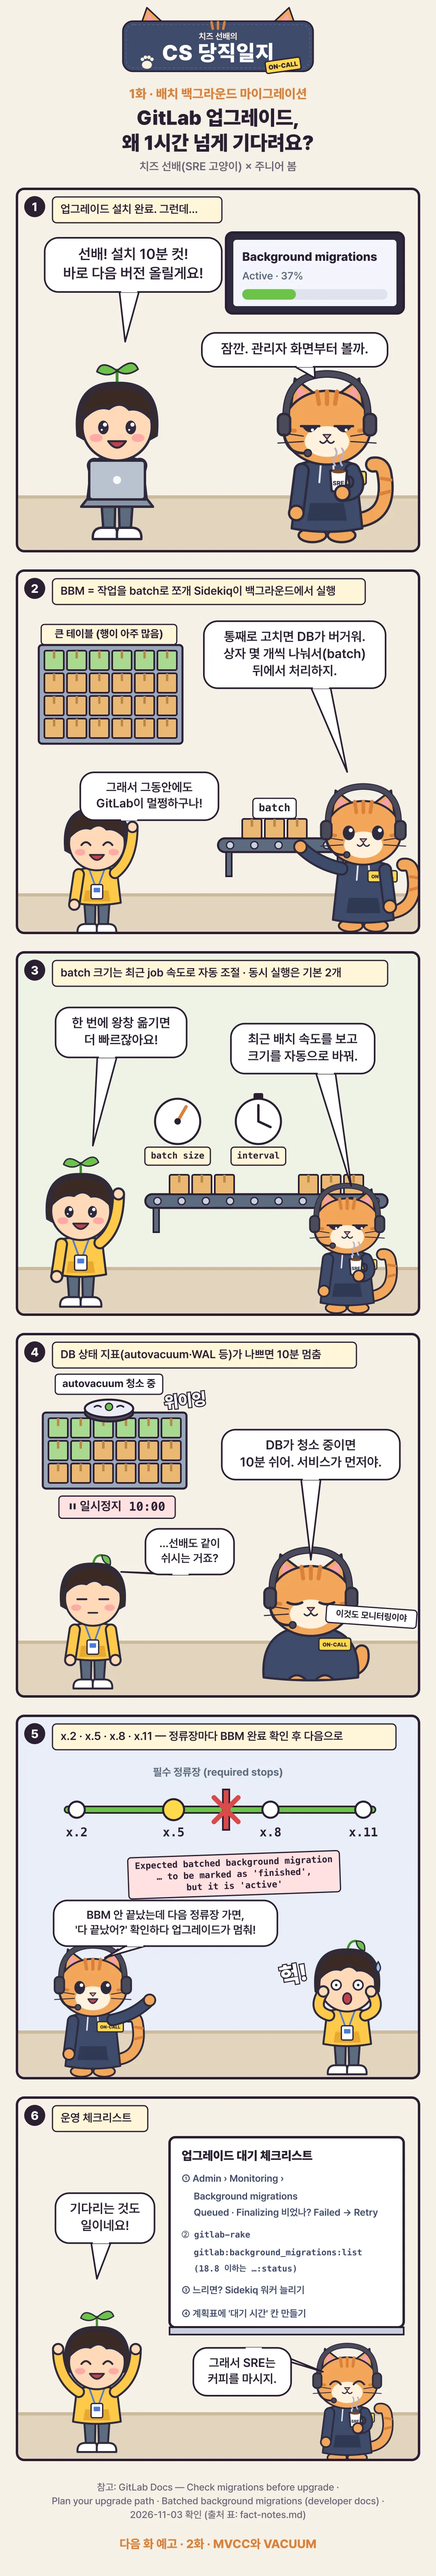
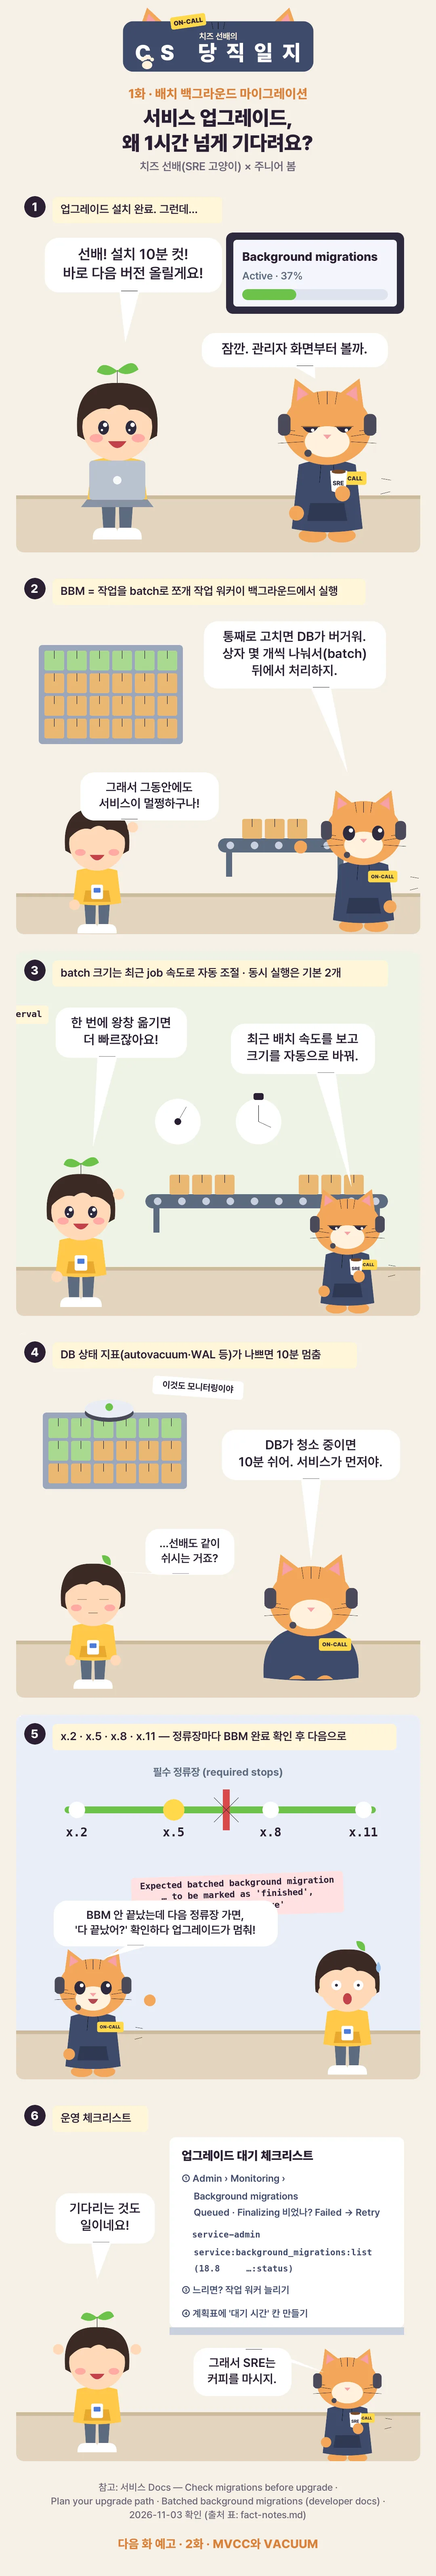
feat: publish CS comic story layer

diff --git a/src/lib/content.ts b/src/lib/content.ts
@@ -25,12 +25,13 @@ export const relatedPosts = (post: CollectionEntry<'posts'>, posts: CollectionEn
     .slice(0, limit)
     .map(({ other }) => other);
 
-// Episodes of one series ordered by publish date, then file name (cs-comic-01-…, cs-comic-02-…).
+// Series entries may include story interludes; their explicit order is intentional.
 export const seriesNeighbors = (post: CollectionEntry<'posts'>, posts: CollectionEntry<'posts'>[]) => {
   if (!post.data.series) return {};
   const episodes = posts
     .filter((other) => other.data.series === post.data.series && (other.id === post.id || isPublished(other)))
-    .sort((a, b) => a.data.publishedAt.getTime() - b.data.publishedAt.getTime() || a.id.localeCompare(b.id));
+    .sort((a, b) => (a.data.seriesOrder ?? Number.MAX_SAFE_INTEGER) - (b.data.seriesOrder ?? Number.MAX_SAFE_INTEGER)
+      || a.data.publishedAt.getTime() - b.data.publishedAt.getTime() || a.id.localeCompare(b.id));
   const index = episodes.findIndex((other) => other.id === post.id);
   return { prev: episodes[index - 1], next: episodes[index + 1] };
 };

diff --git a/src/content.config.ts b/src/content.config.ts
@@ -16,6 +16,8 @@ const postSchema = z.object({
   summary: z.string().optional(),
   appliesTo: z.string().optional(),
   series: z.string().optional(),
+  seriesOrder: z.number().int().positive().optional(),
+  seriesLabel: z.string().optional(),
   image: z.string().optional(),
   draft: z.boolean().default(true),
 });

diff --git a/src/content/posts/cs-comic-01-batched-background-migrations.md b/src/content/posts/cs-comic-01-batched-background-migrations.md
@@ -1,75 +1,36 @@
 ---
-title: "[CS 당직일지 1화] GitLab 업그레이드, 왜 1시간 넘게 기다려요?"
-description: 설치는 10분에 끝났는데 업그레이드는 안 끝났다. GitLab 배치 백그라운드 마이그레이션(BBM)을 치즈 선배와 봄의 6컷 만화로 정리했다.
-publishedAt: 2026-11-03
-tags:
-  - cs-comic
-  - gitlab
-  - upgrade
-  - database
+title: "[CS 당직일지 1화] 업그레이드, 왜 1시간 넘게 기다려요?"
+description: 설치는 10분에 끝났는데 업그레이드는 안 끝났다. 배치 백그라운드 마이그레이션을 6컷 만화로 정리했다.
+publishedAt: 2026-10-30
+tags: [cs-comic, upgrade, database]
 category: tech
 series: cs-comic
+seriesOrder: 1
+seriesLabel: 1화
 image: /comics/cs-comic/ep01-title-card.png
-summary: GitLab 업그레이드는 패키지 설치로 끝나지 않는다. 배치 백그라운드 마이그레이션이 Sidekiq에서 끝나야 다음 필수 정류장(x.2 · x.5 · x.8 · x.11)으로 갈 수 있다.
-appliesTo: GitLab self-managed 17.5 이후 업그레이드 경로
+summary: 큰 데이터 변경은 작은 배치로 나누고, 진행과 실패를 확인한 뒤 다음 단계로 간다.
+appliesTo: 배치형 데이터 마이그레이션을 사용하는 서비스
 draft: false
 ---
 
-[치즈 선배의 CS 당직일지](/series/cs-comic/) 1화. 헤드셋을 쓴 SRE 고양이 치즈 선배와 주니어 봄이 당직을 서며 장애 하나로 CS 개념 하나를 배운다.
-이번 화는 GitLab 업그레이드 뒤에 남는 **배치 백그라운드 마이그레이션(Batched Background Migration, BBM)** 이야기다.
+[치즈 선배의 CS 당직일지](/series/cs-comic/) 1화. 설치가 끝났다고 업그레이드가 끝난 것은 아니다. 큰 테이블 변경을 작은 작업으로 나누어 뒤에서 처리하는 **배치 백그라운드 마이그레이션(BBM)**을 따라가 본다.
 
-<figure class="comic">
-<picture>
-<source srcset="/comics/cs-comic/ep01-webtoon.avif" type="image/avif" />
-<source srcset="/comics/cs-comic/ep01-webtoon.webp" type="image/webp" />
-<img src="/comics/cs-comic/ep01-webtoon.png" width="1080" height="6370" loading="lazy" decoding="async" alt="6컷 세로 만화. 1컷: 노트북을 든 봄이 업그레이드 설치가 10분 만에 끝났다며 바로 다음 버전을 올리겠다고 하고, 커피를 든 치즈 선배는 관리자 화면의 Background migrations Active 37% 진행 막대를 가리킨다. 2컷: 칸이 많은 큰 테이블 상자를 치즈 선배가 컨베이어 벨트 위 batch 상자 몇 개로 나눠 옮기고, 봄이 그동안에도 GitLab이 멀쩡한 이유를 깨닫는다. 3컷: batch size와 interval 시계 두 개 아래로 상자가 흘러가고, 치즈 선배가 최근 배치 속도를 보고 크기를 자동으로 바꾼다고 설명한다. 4컷: 로봇 청소기가 테이블 위를 돌며 autovacuum 청소 중이라 일시정지 10:00이 표시되고, 눈을 감은 치즈 선배가 이것도 모니터링이라고 말한다. 5컷: x.2, x.5, x.8, x.11 필수 정류장 노선도에서 x.5 다음 구간에 빨간 X가 있고, finished가 아니라 active라는 오류 문구에 봄이 놀란다. 6컷: 업그레이드 대기 체크리스트 칠판 앞에서 봄이 두 팔을 들고, 치즈 선배는 커피를 마신다." />
-</picture>
-</figure>
+<figure class="comic"><picture><source srcset="/comics/cs-comic/ep01-webtoon.webp" type="image/webp" /><img src="/comics/cs-comic/ep01-webtoon.webp" width="1080" height="6370" loading="lazy" decoding="async" alt="6컷 세로 만화. 봄이 업그레이드가 끝났다고 서두르자 치즈 선배가 진행 중인 배치 마이그레이션을 가리킨다. 큰 테이블 변경을 작은 작업으로 나누고, 데이터베이스 상태가 나쁘면 잠시 쉬며, 완료를 확인한 뒤 다음 단계로 가는 흐름을 설명한다." /></picture></figure>
 
 <div class="learned">
 
 ## 이번 화에서 배운 것
 
-- 패키지 설치가 끝나도 업그레이드는 끝나지 않았다. 큰 테이블 변경은 **BBM**으로 쪼개져 Sidekiq이 백그라운드에서 처리하고, 그동안 GitLab은 계속 돈다.
-- batch 크기는 최근 job 속도를 보고 **자동으로 조절**되고, 동시에 도는 마이그레이션은 **기본 2개**다. DB 상태 지표(autovacuum, WAL 등)가 나쁘면 **10분 멈춘다**.
-- 17.5 이후 필수 정류장은 **x.2 · x.5 · x.8 · x.11**이다. 정류장마다 BBM이 끝난 걸 확인하고 다음으로 가야 한다. 안 그러면 다음 버전이 "끝났지?" 확인하다 멈춘다.
+- 큰 변경을 작은 **batch**로 나눠 백그라운드에서 처리하면 한꺼번에 부하를 주지 않는다.
+- batch 크기와 동시 실행 수는 DB 부하를 보며 정하고, DB가 바쁜 신호가 보이면 잠시 멈춘다.
+- 다음 단계로 가기 전 진행·보류·실패한 작업이 없는지 확인하고, 그 대기 시간도 계획에 넣는다.
 
 </div>
 
-## 대사 옮겨 적기
+## 운영 치트 시트
 
-| 컷 | 상황 | 대사 |
-|----|------|------|
-| 1 | 업그레이드 설치 완료. 그런데… | **봄**: 선배! 설치 10분 컷! 바로 다음 버전 올릴게요!<br>**치즈 선배**: 잠깐. 관리자 화면부터 볼까. (화면: Background migrations · Active 37%) |
-| 2 | BBM = 작업을 batch로 쪼개 Sidekiq이 백그라운드에서 실행 | **치즈 선배**: 통째로 고치면 DB가 버거워. 상자 몇 개씩 나눠서(batch) 뒤에서 처리하지.<br>**봄**: 그래서 그동안에도 GitLab이 멀쩡하구나! |
-| 3 | batch 크기는 최근 job 속도로 자동 조절 · 동시 실행은 기본 2개 | **봄**: 한 번에 왕창 옮기면 더 빠르잖아요!<br>**치즈 선배**: 최근 배치 속도를 보고 크기를 자동으로 바꿔. |
-| 4 | DB 상태 지표(autovacuum·WAL 등)가 나쁘면 10분 멈춤 | **치즈 선배**: DB가 청소 중이면 10분 쉬어. 서비스가 먼저야.<br>**봄**: …선배도 같이 쉬시는 거죠?<br>**치즈 선배**: 이것도 모니터링이야. |
-| 5 | x.2 · x.5 · x.8 · x.11 — 정류장마다 BBM 완료 확인 후 다음으로 | (오류: `Expected batched background migration … to be marked as 'finished', but it is 'active'`)<br>**치즈 선배**: BBM 안 끝났는데 다음 정류장 가면, '다 끝났어?' 확인하다 업그레이드가 멈춰!<br>**봄**: 헉! |
-| 6 | 운영 체크리스트 | (① Admin › Monitoring › Background migrations에서 Queued · Finalizing이 비었나, Failed → Retry ② `gitlab-rake gitlab:background_migrations:list` (18.8 이하는 `:status`) ③ 느리면 Sidekiq 워커 늘리기 ④ 계획표에 '대기 시간' 칸 만들기)<br>**봄**: 기다리는 것도 일이네요!<br>**치즈 선배**: 그래서 SRE는 커피를 마시지. |
-
-## 컷에는 없는 운영 팁
-
-- 19.5부터 `sudo gitlab-rake gitlab:background_migrations:wait`가 있다. 다 끝날 때까지 기다렸다가 0으로 끝나고, failed가 있으면 0이 아닌 값으로 끝난다. 자동화 파이프라인에서 다음 업그레이드를 막아 두기 좋다.
-- DB에서 직접 확인하려면 아래 쿼리가 0행이면 다 끝난 것이다.
-
-```shell
-sudo gitlab-psql -c "SELECT job_class_name, table_name, column_name, job_arguments FROM batched_background_migrations WHERE status NOT IN(3, 6);"
-```
-
-- 동시 실행 개수는 Rails 콘솔에서 `ApplicationSetting.update_all(database_max_running_batched_background_migrations: 4)`로 바꿀 수 있다. DB 부하를 감당할 수 있을 때만 쓴다.
-
-## 일부러 단순하게 그린 부분
-
-- "설치 10분 컷"과 "Active 37%"는 그림용 숫자다. 실측값이 아니다. 제목의 "1시간 넘게"도 일반적인 표현이고, 문서는 큰 인스턴스에서 훨씬 오래 걸릴 수 있다고 적어 둔다.
-- 4컷의 DB 상태 지표는 autovacuum과 WAL만 적었다. Patroni apdex 같은 지표도 있다.
-- 필수 정류장은 17.5 이후 규칙만 그렸다. 16.x와 17.x 초반 정류장은 업그레이드 경로 문서의 표를 봐야 한다.
-
-## 출처
-
-| # | 출처 | 확인일 |
-|---|------|--------|
-| S1 | [Check migrations before upgrade](https://docs.gitlab.com/update/background_migrations/) (GitLab 관리자 문서) | 2026-11-03 |
-| S2 | [Plan your upgrade path](https://docs.gitlab.com/update/upgrade_paths/) (GitLab 관리자 문서) | 2026-11-03 |
-| S3 | [Batched background migrations](https://docs.gitlab.com/development/database/batched_background_migrations/) (GitLab 개발자 문서) | 2026-11-03 |
+- 대기열 길이·처리율·실패 수와 데이터베이스 지표를 함께 본다.
+- 종료 조건은 "진행 중인 마이그레이션이 0개"처럼 명확하게 둔다.
+- 병렬도를 늘리기 전에 DB 부하가 감당 가능한지 먼저 확인한다.
 
 4컷의 autovacuum 복선은 [2화 MVCC와 VACUUM](/posts/cs-comic-02-mvcc-vacuum/)에서 이어진다.

diff --git a/src/content/posts/cs-comic-03-btree-index.md b/src/content/posts/cs-comic-03-btree-index.md
@@ -1,0 +1,51 @@
+---
+title: "[CS 당직일지 3화] 인덱스 걸었는데 왜 안 타요?"
+description: B-tree 인덱스, 선택도, 플래너, HOT와 인덱스 bloat를 9컷 만화로 정리했다.
+publishedAt: 2026-11-04
+tags: [cs-comic, postgresql, database, index]
+category: tech
+series: cs-comic
+seriesOrder: 6
+seriesLabel: 3화
+image: /comics/cs-comic/ep03-btree-index.webp
+summary: 인덱스는 적은 행을 찾을 때 유리하지만, 많이 읽거나 쓰기가 많은 경우에는 비용이 더 클 수 있다.
+appliesTo: PostgreSQL B-tree 인덱스와 쿼리 플래너
+draft: false
+---
+
+[치즈 선배의 CS 당직일지](/series/cs-comic/) 3화. 태오가 `status`에 인덱스를 만들었는데도 목록 조회는 Seq Scan이다. B-tree가 언제 도움이 되는지, 왜 플래너가 다른 길을 고르는지 따라가 본다.
+
+<figure class="comic"><img src="/comics/cs-comic/ep03-btree-index.webp" width="1080" height="9665" loading="lazy" decoding="async" alt="9컷 세로 만화. 태오가 status 인덱스를 만들었지만 조회는 Seq Scan이다. 치즈 선배가 B-tree 구조와 선택도, 통계, 쓰기 비용과 index bloat를 설명하고, 봄의 당직 노트 치트 시트와 pg_wal 포스트잇 쿠키로 끝난다." /></figure>
+
+<div class="learned">
+
+## 이번 화에서 배운 것
+
+- B-tree는 정렬된 여러 갈래 트리다. 적은 행을 찾을 때는 인덱스 페이지를 몇 단계 내려가 빠르게 위치를 찾는다.
+- 결과가 테이블 대부분이라면 행마다 점프하는 인덱스보다 처음부터 읽는 Seq Scan이 더 쌀 수 있다.
+- 플래너는 `ANALYZE` 통계로 선택도를 추정한다. 데이터 분포가 바뀌었다면 통계부터 갱신한다.
+- 인덱스는 쓰기 때도 관리 비용이 든다. 쓰지 않는 인덱스와 부푼 인덱스는 점검한다.
+
+</div>
+
+## 봄의 당직 노트 p.3
+
+1. `EXPLAIN (ANALYZE, BUFFERS)`로 실제 계획과 행 수 추정을 비교한다.
+2. 조건이 적은 행을 고르는지, 정렬이나 범위 조건에 맞는지 확인한다.
+3. 데이터가 크게 바뀌었으면 `ANALYZE`를 먼저 한다.
+4. `pg_stat_all_indexes.idx_scan`으로 사용량을 살피되, 통계 초기화·복제본 사용 여부도 함께 본다.
+5. 운영 중 인덱스를 만들거나 다시 지을 때는 잠금 영향을 검토하고 `CONCURRENTLY` 옵션을 고려한다.
+
+## 일부러 단순하게 그린 부분
+
+- 그림의 500만 행·3층·95% 비율은 한 예제 데이터에서 나온 값이며 모든 테이블에 그대로 적용되지 않는다.
+- 비용은 환경 설정과 캐시 상태에 따라 바뀐다. 인덱스를 강제로 쓰게 하기보다 계획과 통계를 먼저 확인한다.
+
+## 출처
+
+- [PostgreSQL: Introduction to Indexes](https://www.postgresql.org/docs/current/indexes-intro.html)
+- [PostgreSQL: B-Tree Indexes](https://www.postgresql.org/docs/current/btree.html)
+- [PostgreSQL: Using EXPLAIN](https://www.postgresql.org/docs/current/using-explain.html)
+- [PostgreSQL: Statistics Used by the Planner](https://www.postgresql.org/docs/current/planner-stats.html)
+
+쿠키의 `pg_wal` 메모는 다음 WAL 이야기로 이어진다.

diff --git a/src/content/posts/cs-comic-interlude-02-culprit.md b/src/content/posts/cs-comic-interlude-02-culprit.md
@@ -1,0 +1,23 @@
+---
+title: "[CS 당직일지 막간 2] BEGIN 해 놓고 퇴근한 범인"
+description: 2화의 오래 열린 트랜잭션 범인을 찾아가는 4컷 이야기.
+publishedAt: 2026-11-02
+tags: [cs-comic, postgresql, story]
+category: tech
+series: cs-comic
+seriesOrder: 4
+seriesLabel: 막간 2
+image: /comics/cs-comic/int02-culprit.webp
+summary: 열린 트랜잭션이 VACUUM을 막는 이유와 idle in transaction 시간 제한을 짚는다.
+draft: false
+---
+
+[치즈 선배의 CS 당직일지](/series/cs-comic/) 막간 2. 봄이 `pg_stat_activity`에서 오래 열린 트랜잭션의 주인을 찾는다.
+
+<figure class="comic"><img src="/comics/cs-comic/int02-culprit.webp" width="1080" height="4352" loading="lazy" decoding="async" alt="4컷 세로 만화. 봄이 오래 열린 트랜잭션을 찾고 태오가 주말 내내 BEGIN 상태였음을 알게 된다. 치즈 선배는 트랜잭션 유휴 시간 제한을 설정하고, 태오는 인덱스를 모두 만들겠다고 말한다." /></figure>
+
+## 이번 막간에서 배운 것
+
+- 열린 트랜잭션은 아직 볼 수 있는 옛 행 때문에 VACUUM이 dead tuple을 치우지 못하게 한다.
+- `idle_in_transaction_session_timeout`은 열린 트랜잭션 안에서 오래 유휴 상태인 세션을 종료한다. 값은 서비스 특성에 맞춰 정한다.
+- 다음 화: 인덱스는 많을수록 정말 좋을까?

diff --git a/src/content/posts/cs-comic-interlude-03-coffee.md b/src/content/posts/cs-comic-interlude-03-coffee.md
@@ -1,0 +1,23 @@
+---
+title: "[CS 당직일지 막간 3] 당직실의 3분"
+description: 알람이 울리면 치즈 선배가 커피부터 내리는 이유를 담은 4컷 이야기.
+publishedAt: 2026-11-03
+tags: [cs-comic, story, oncall]
+category: tech
+series: cs-comic
+seriesOrder: 5
+seriesLabel: 막간 3
+image: /comics/cs-comic/int03-coffee.webp
+summary: 급할수록 손보다 화면을 먼저 보는, 치즈 선배의 3분 의식을 소개한다.
+draft: false
+---
+
+[치즈 선배의 CS 당직일지](/series/cs-comic/) 막간 3. 새벽 당직실에서 봄은 치즈 선배가 알람 뒤에 바로 행동하지 않는 이유를 묻는다.
+
+<figure class="comic"><img src="/comics/cs-comic/int03-coffee.webp" width="1080" height="4352" loading="lazy" decoding="async" alt="4컷 세로 만화. 새벽 당직실에서 치즈 선배는 물이 끓는 3분 동안 화면만 보라고 말한다. 과거의 디스크 경보가 실루엣으로 지나가고, 다음 날 태오가 인덱스를 만들었다는 메시지가 온다." /></figure>
+
+## 이야기 치트 시트
+
+- 알람이 울렸을 때의 짧은 멈춤은 성급한 조치를 막는 운영 습관이다.
+- 치즈 선배의 과거에는 아직 밝혀지지 않은 삭제 사고가 있다.
+- 다음 화: 인덱스를 걸었는데도 왜 Seq Scan일까?

diff --git a/src/content/posts/cs-comic-interlude-01-first-week.md b/src/content/posts/cs-comic-interlude-01-first-week.md
@@ -1,0 +1,23 @@
+---
+title: "[CS 당직일지 막간 1] 막내는 누구?"
+description: 봄의 입사 첫 주. 모니와 먼지 선배, 그리고 미어 PM을 만나는 4컷 이야기.
+publishedAt: 2026-10-31
+tags: [cs-comic, story]
+category: tech
+series: cs-comic
+seriesOrder: 2
+seriesLabel: 막간 1
+image: /comics/cs-comic/int01-first-week.webp
+summary: 봄의 첫 주에 모니, 먼지, 미어 PM이 합류하고 다음 디스크 경보를 예고한다.
+draft: false
+---
+
+[치즈 선배의 CS 당직일지](/series/cs-comic/) 막간 1. 봄의 입사 첫 주, 팀의 막내와 새 화분 모니를 소개한다.
+
+<figure class="comic"><img src="/comics/cs-comic/int01-first-week.webp" width="1080" height="4352" loading="lazy" decoding="async" alt="4컷 세로 만화. 치즈 선배가 봄에게 화분을 선물하고, 로봇청소기 먼지 선배를 소개한다. 버릴 상자에 스티커를 붙여도 자리는 그대로라는 비유 뒤, 미어 PM이 디스크 경보를 알린다." /></figure>
+
+## 이야기 치트 시트
+
+- **모니**는 모니터링의 모니. 시즌 동안 잎이 한 장씩 늘어난다.
+- **먼지 선배**는 매일 새벽 3시에 청소하는 로봇청소기다.
+- 다음 화: DELETE 했는데도 디스크가 그대로인 이유.

diff --git a/src/content/posts/cs-comic-02-mvcc-vacuum.md b/src/content/posts/cs-comic-02-mvcc-vacuum.md
@@ -1,7 +1,7 @@
 ---
 title: "[CS 당직일지 2화] DELETE 했는데 왜 디스크가 그대로예요?"
 description: 로그 행 절반을 지웠는데 디스크는 82% 그대로. PostgreSQL의 MVCC, dead tuple, VACUUM과 XID wraparound를 치즈 선배와 봄의 8컷 만화로 정리했다.
-publishedAt: 2026-11-03
+publishedAt: 2026-11-01
 tags:
   - cs-comic
   - postgresql
@@ -9,6 +9,8 @@ tags:
   - mvcc
 category: tech
 series: cs-comic
+seriesOrder: 3
+seriesLabel: 2화
 image: /comics/cs-comic/ep02-title-card.png
 summary: PostgreSQL의 DELETE와 UPDATE는 행을 바로 지우지 않고 옛 버전에 xmax 표시만 남긴다. VACUUM은 그 자리를 재사용 가능하게 할 뿐 보통 OS에 돌려주지 않는다.
 appliesTo: PostgreSQL 18 (autovacuum 기본값은 버전에 따라 다름)
